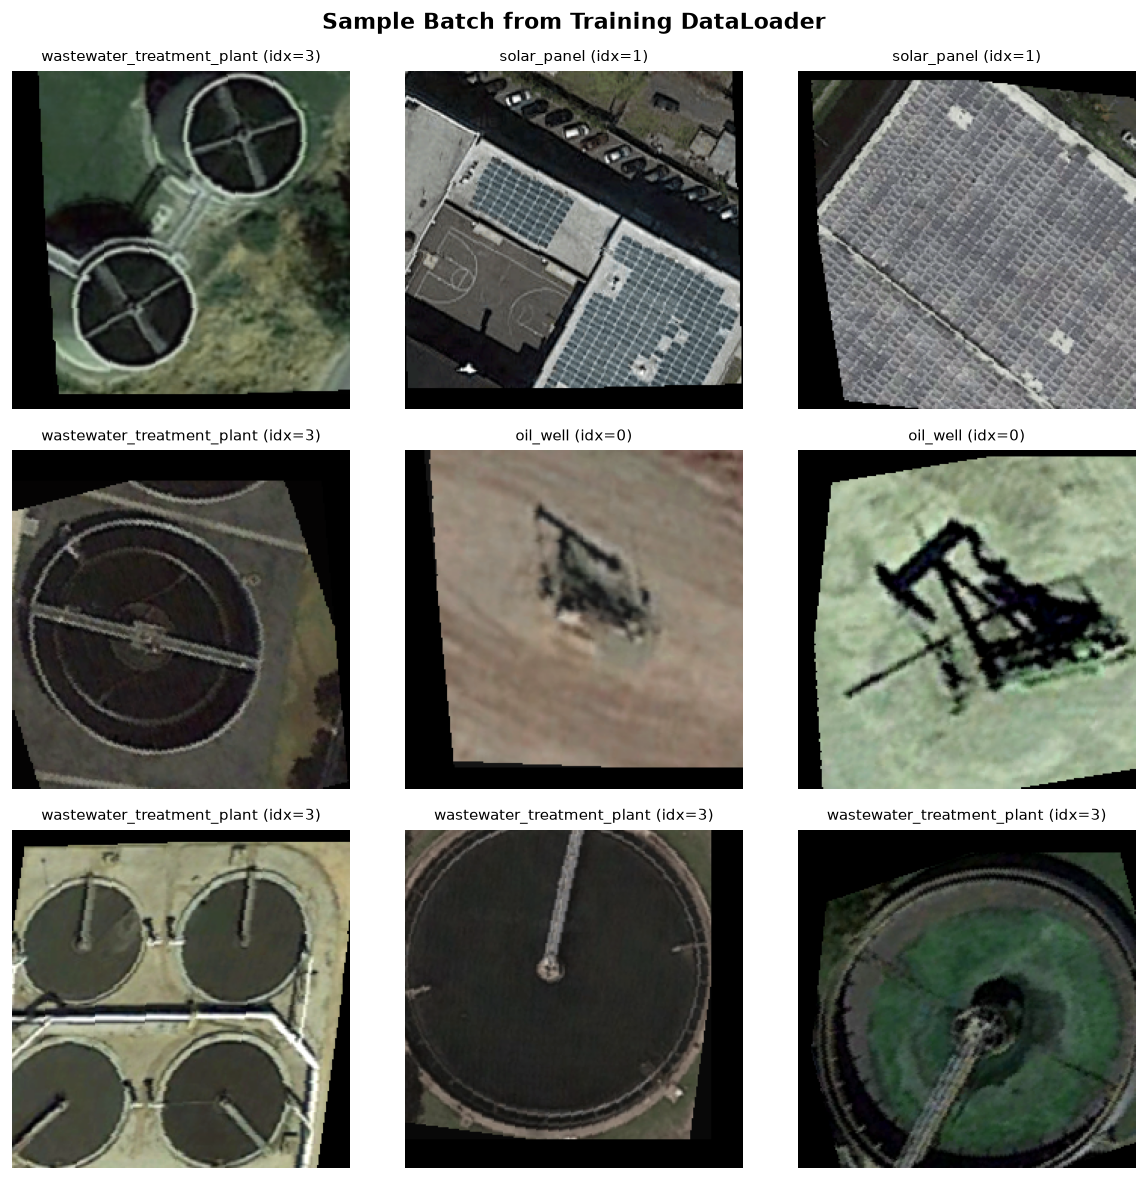
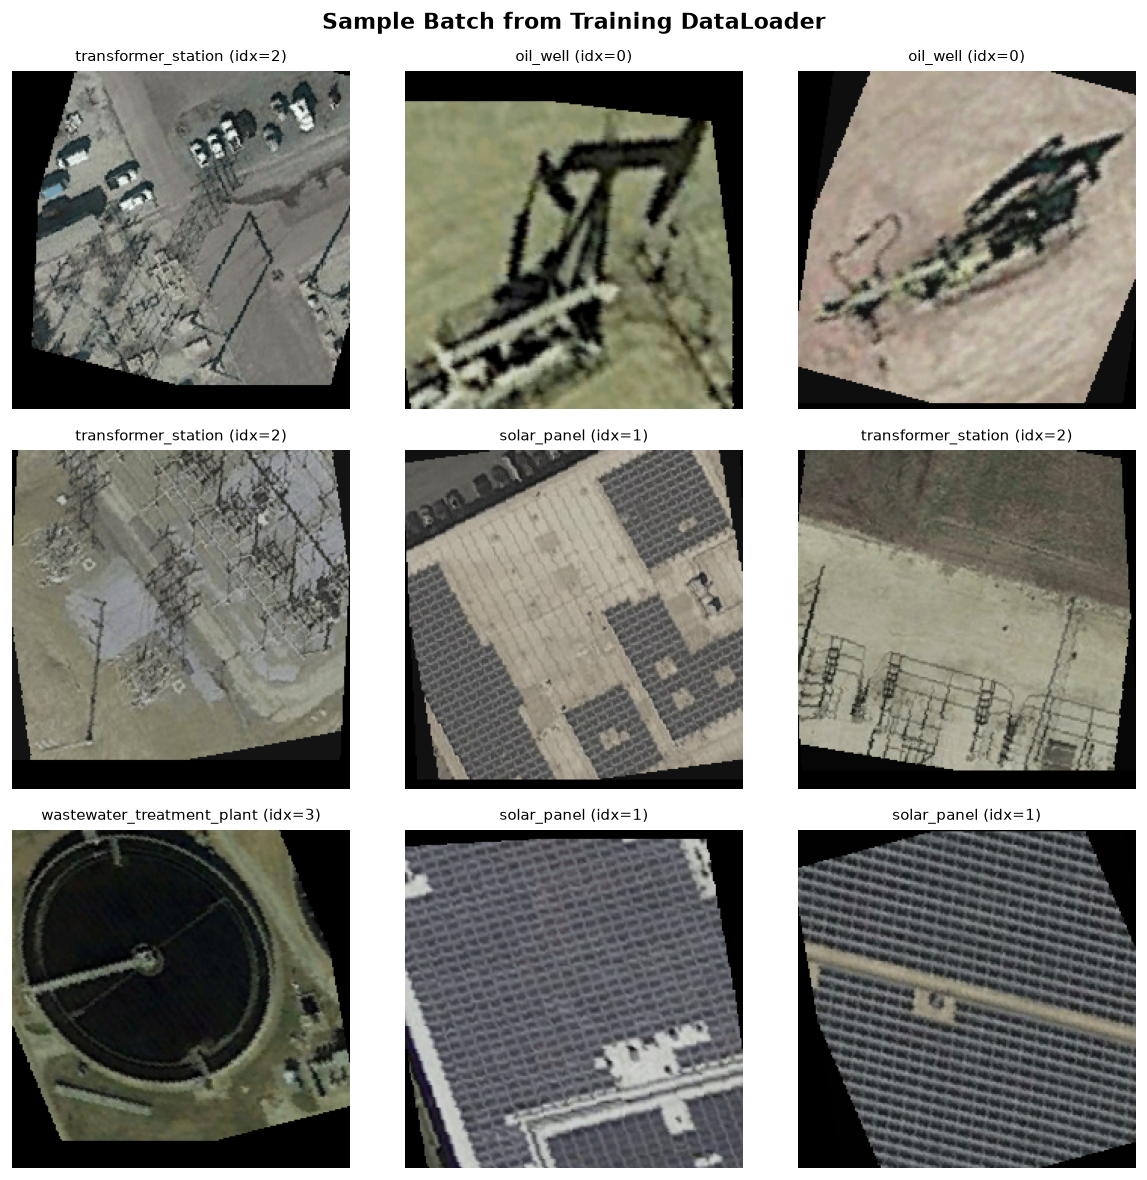
Phase 3a: update Custom CNN results and report PNGs

diff --git a/src/dataset.py b/src/dataset.py
@@ -82,16 +82,6 @@ def get_data_loaders(data_dir, batch_size=32, num_workers=0):
     train_dataset = ImageDataset(train_dir, transform=TRANSFORM_TRAIN)
     val_dataset = ImageDataset(val_dir, transform=TRANSFORM_VAL)
 
-    print(f'Train images loaded: {len(train_dataset)}')
-    print(f'Val images loaded:   {len(val_dataset)}')
-
-    # Per-class counts
-    from collections import Counter
-    train_counts = Counter(label for _, label in train_dataset.samples)
-    val_counts   = Counter(label for _, label in val_dataset.samples)
-    for idx, name in IDX_TO_CLASS.items():
-        print(f'  {name}: train={train_counts[idx]}  val={val_counts[idx]}')
-
     train_loader = DataLoader(
         train_dataset,
         batch_size=batch_size,